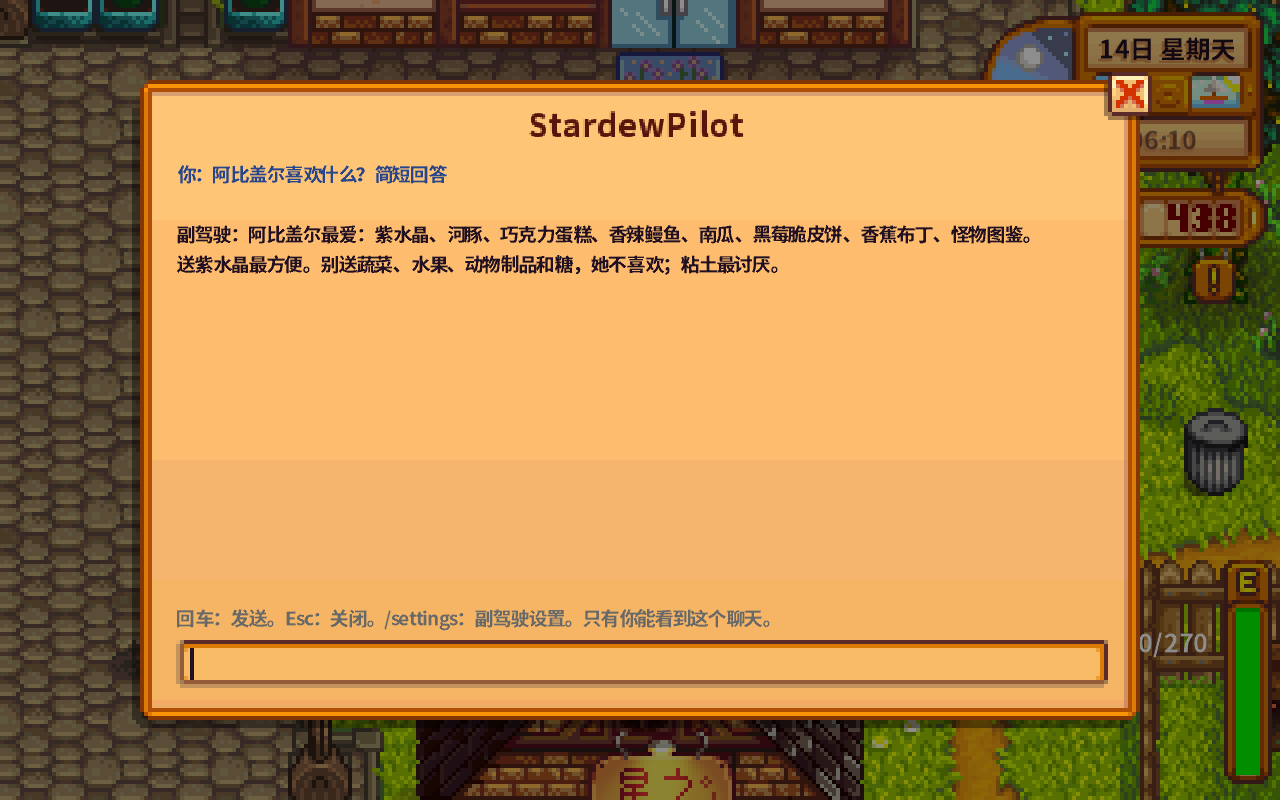
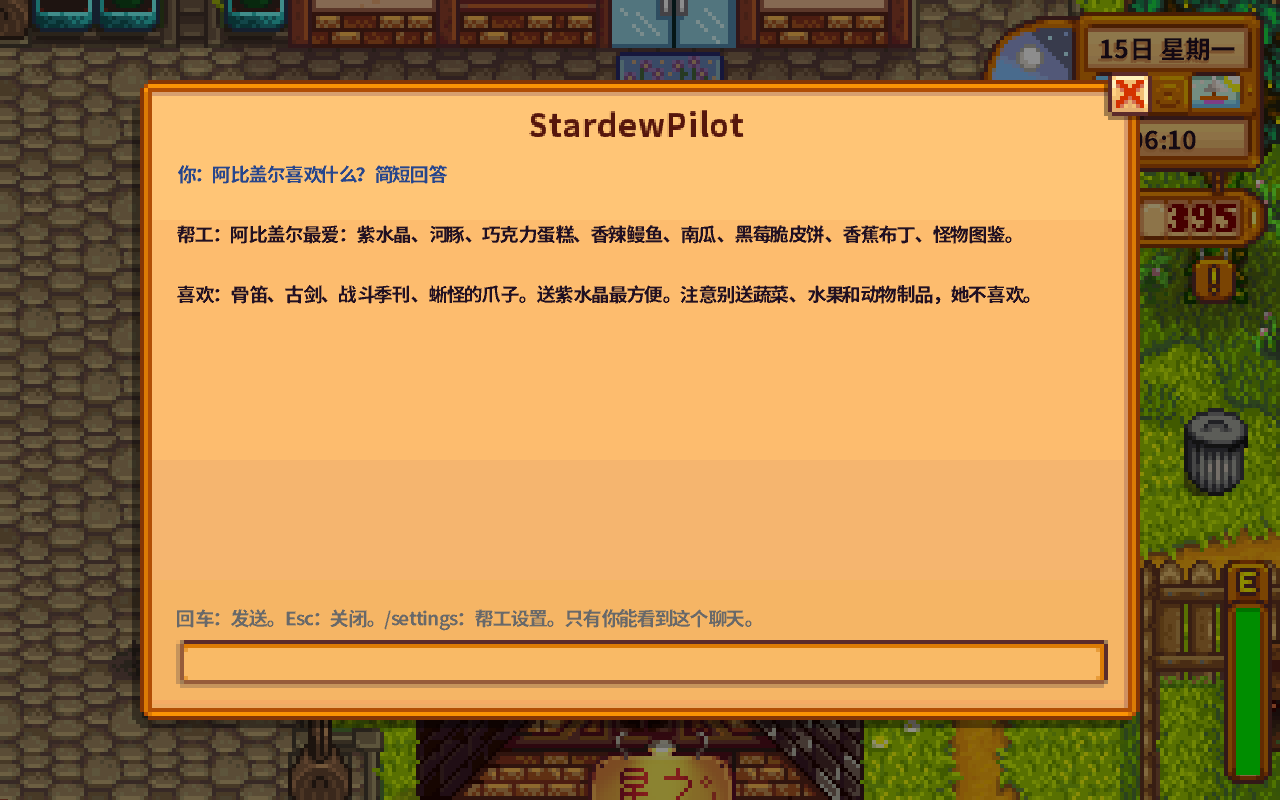
Website: one language button, and 农场帮工 for the copilot in Chinese
- The four language tags become one wooden tag with a globe that opens a parchment list (a <details>, so it works
  without JavaScript); more languages are one more row.
- Chinese text calls the copilot 农场帮工 (farmhand) instead of 副驾驶; screenshots retaken, font subset regenerated.

diff --git a/website/src/site.css b/website/src/site.css
@@ -51,14 +51,29 @@ svg.px { display: inline-block; vertical-align: middle; }
 
 /* top bar: language tags and GitHub */
 .top { display: flex; justify-content: space-between; gap: 12px; padding: 14px 20px; flex-wrap: wrap; }
-.langs { display: flex; gap: 8px; flex-wrap: wrap; }
 .tag {
 	font-size: 24px; line-height: 1.3; text-decoration: none; color: #fff1c8; text-shadow: 2px 2px 0 var(--wood-d);
 	background: #6b3612; border: 3px solid var(--wood-d); border-radius: 4px; padding: 2px 12px; box-shadow: inset 0 3px 0 #9c5f2c;
 }
-.tag[lang="zh-Hans"] { font-family: "Fusion Pixel ZH", monospace; }
-.tag.on { background: #ffd284; color: var(--maroon); text-shadow: none; box-shadow: inset 0 3px 0 #fff3d2; }
 a.tag:hover { background: #8a4a1c; }
+[lang="zh-Hans"] { font-family: "Fusion Pixel ZH", "Fusion Pixel", monospace; }
+
+/* the language menu: one wooden tag that opens a parchment list (a <details>, so it works without JavaScript) */
+.langs { position: relative; z-index: 5; }
+.langs summary { list-style: none; cursor: pointer; display: flex; align-items: center; gap: 10px; user-select: none; }
+.langs summary::-webkit-details-marker { display: none; }
+.langs summary:hover { background: #8a4a1c; }
+.langs[open] summary { background: #ffd284; color: var(--maroon); text-shadow: none; box-shadow: inset 0 3px 0 #fff3d2; }
+.caret { width: 12px; height: 8px; background: currentColor; clip-path: polygon(0 0, 100% 0, 100% 25%, 83% 25%, 83% 50%, 67% 50%, 67% 75%, 33% 75%, 33% 50%, 17% 50%, 17% 25%, 0 25%); filter: drop-shadow(2px 2px 0 var(--wood-d)); }
+.langs[open] .caret { transform: scaleY(-1); filter: none; }
+.menu { position: absolute; top: calc(100% + 8px); left: 0; min-width: 220px; list-style: none; padding: 12px 10px; }
+.menu li + li { border-top: 3px solid #e9c48a; }
+.menu a, .menu .on { display: flex; align-items: center; gap: 10px; padding: 6px 12px 6px 44px; text-decoration: none; color: var(--ink); position: relative; }
+.menu a:hover, .menu a:focus-visible { background: #ffe7bd; }
+.menu a:hover::before { content: ""; position: absolute; left: 12px; width: 14px; height: 14px; background: #c0221a; clip-path: polygon(0 0, 100% 50%, 0 100%); }
+.menu .on { color: var(--maroon); }
+.menu .on { background: #ffe1a6; box-shadow: inset 0 0 0 3px #e9b65b; }
+.menu .tick { position: absolute; left: 8px; top: 50%; margin-top: -11px; }
 
 /* the sign */
 .sign { position: relative; margin: 26px auto 0; width: fit-content; max-width: calc(100% - 32px); text-align: center; }

diff --git a/website/src/page.ts b/website/src/page.ts
@@ -64,7 +64,10 @@ ${LANGS.filter((l) => l !== lang).map((l) => `<link rel="alternate" hreflang="${
 </head>
 <body>
 <header class="top">
-	<nav class="langs" aria-label="${e(t.nav.language)}">${LANGS.map((l) => (l === lang ? `<span class="tag on" lang="${HTML_LANG[l]}">${LANG_NAMES[l]}</span>` : `<a class="tag" lang="${HTML_LANG[l]}" hreflang="${HTML_LANG[l]}" href="${href(l)}">${LANG_NAMES[l]}</a>`)).join("")}</nav>
+	<details class="langs">
+		<summary class="tag" aria-label="${e(t.nav.language)}: ${LANG_NAMES[lang]}">${sprite("globe", 2)}<span lang="${HTML_LANG[lang]}">${LANG_NAMES[lang]}</span><i class="caret"></i></summary>
+		<ul class="menu frame thin">${LANGS.map((l) => `<li>${l === lang ? `<span class="on" aria-current="true" lang="${HTML_LANG[l]}">${sprite("check", 3, "px tick")}${LANG_NAMES[l]}</span>` : `<a lang="${HTML_LANG[l]}" hreflang="${HTML_LANG[l]}" href="${href(l)}">${LANG_NAMES[l]}</a>`}</li>`).join("")}</ul>
+	</details>
 	<a class="tag gh" href="${REPO}">GitHub</a>
 </header>
 
@@ -135,6 +138,7 @@ ${t.start.steps.map((s, i) => `		<li class="note"><h3><span>${i + 1}</span> ${e(
 	<p class="small">${e(t.footer.fonts)}</p>
 	<p class="mascot">${sprite("bot", 4)}</p>
 </footer>
+<script>{const d=document.querySelector(".langs");addEventListener("click",e=>{if(!d.contains(e.target))d.open=false});addEventListener("keydown",e=>{if(e.key==="Escape"&&d.open){d.open=false;d.querySelector("summary").focus()}})}</script>
 </body>
 </html>
 `;

diff --git a/website/src/sprites.ts b/website/src/sprites.ts
@@ -165,6 +165,18 @@ export const SPRITES: Record<string, Sprite> = {
 			"......KK"
 		]
 	},
+	"check": {
+		"w": 9,
+		"p": { "G": "#4f9a2a", "L": "#7ed957" },
+		"r": ["......KKK", ".....KLGK", "KKK.KLGK", "KLGKKLGK", ".KLGLGK", "..KLGK", "...KK"]
+	},
+	"globe": {
+		"p": { "B": "#4aa3d8", "L": "#8fd3f2", "G": "#5fae2d", "D": "#2f7d32" },
+		"r": [
+			"", "....KKKKKK", "..KKBBGGBBKK", ".KBBBGGGGBLBK", ".KBGGGGGBBBBK", "KBBGGGGBBBBBBK", "KBBBGGBBBBGGBK", "KBBBBGBBBGGGBK",
+			"KBBBBBBBGGGGDK", "KBBBBBBBBGGDBK", ".KBGBBBBBBGBK", ".KBGGBBBBBBBK", "..KKBBBBBBKK", "....KKKKKK"
+		]
+	},
 	"star": {
 		"w": 7,
 		"p": {
